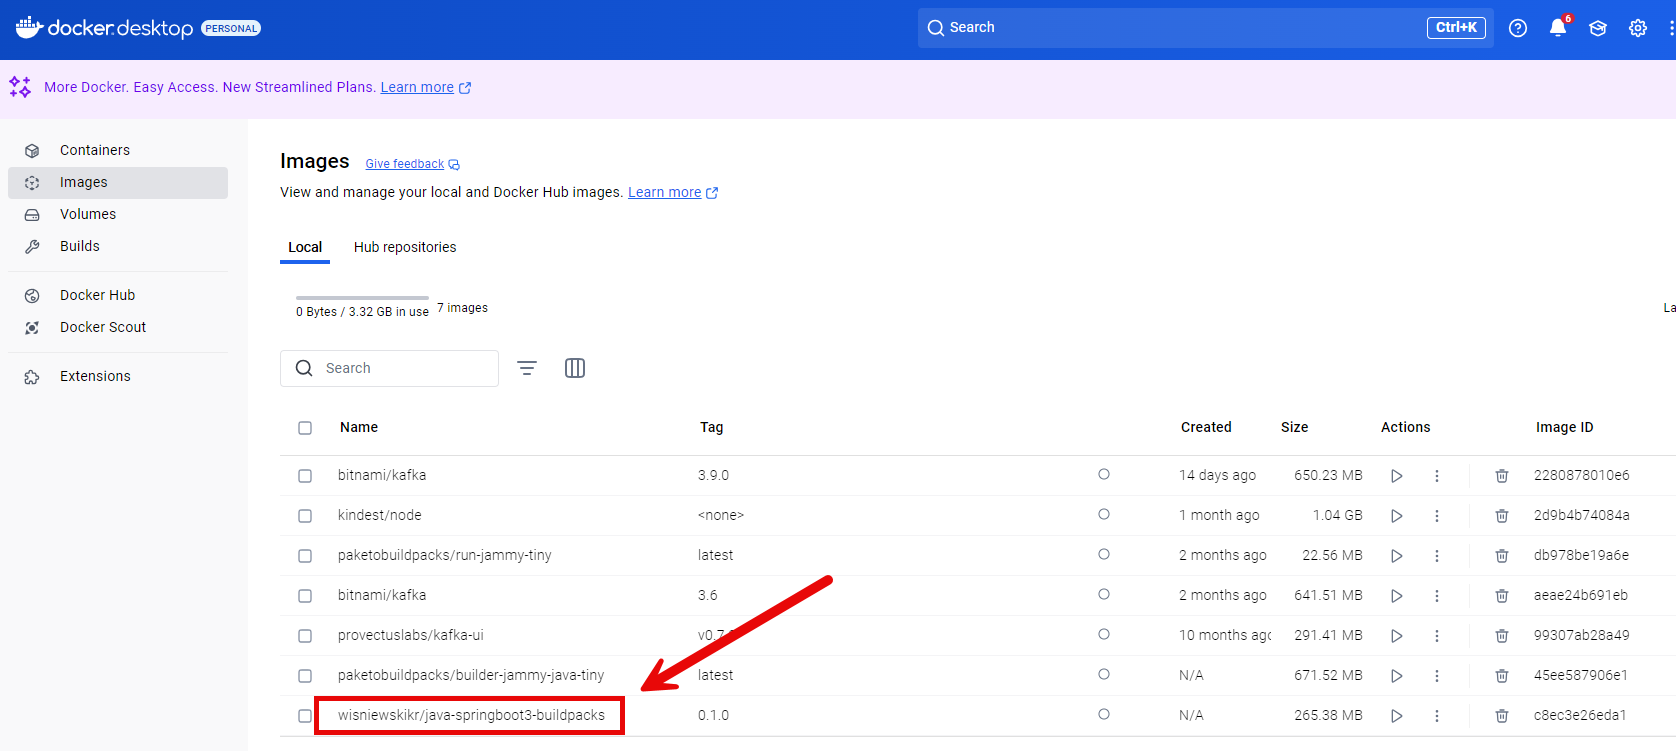
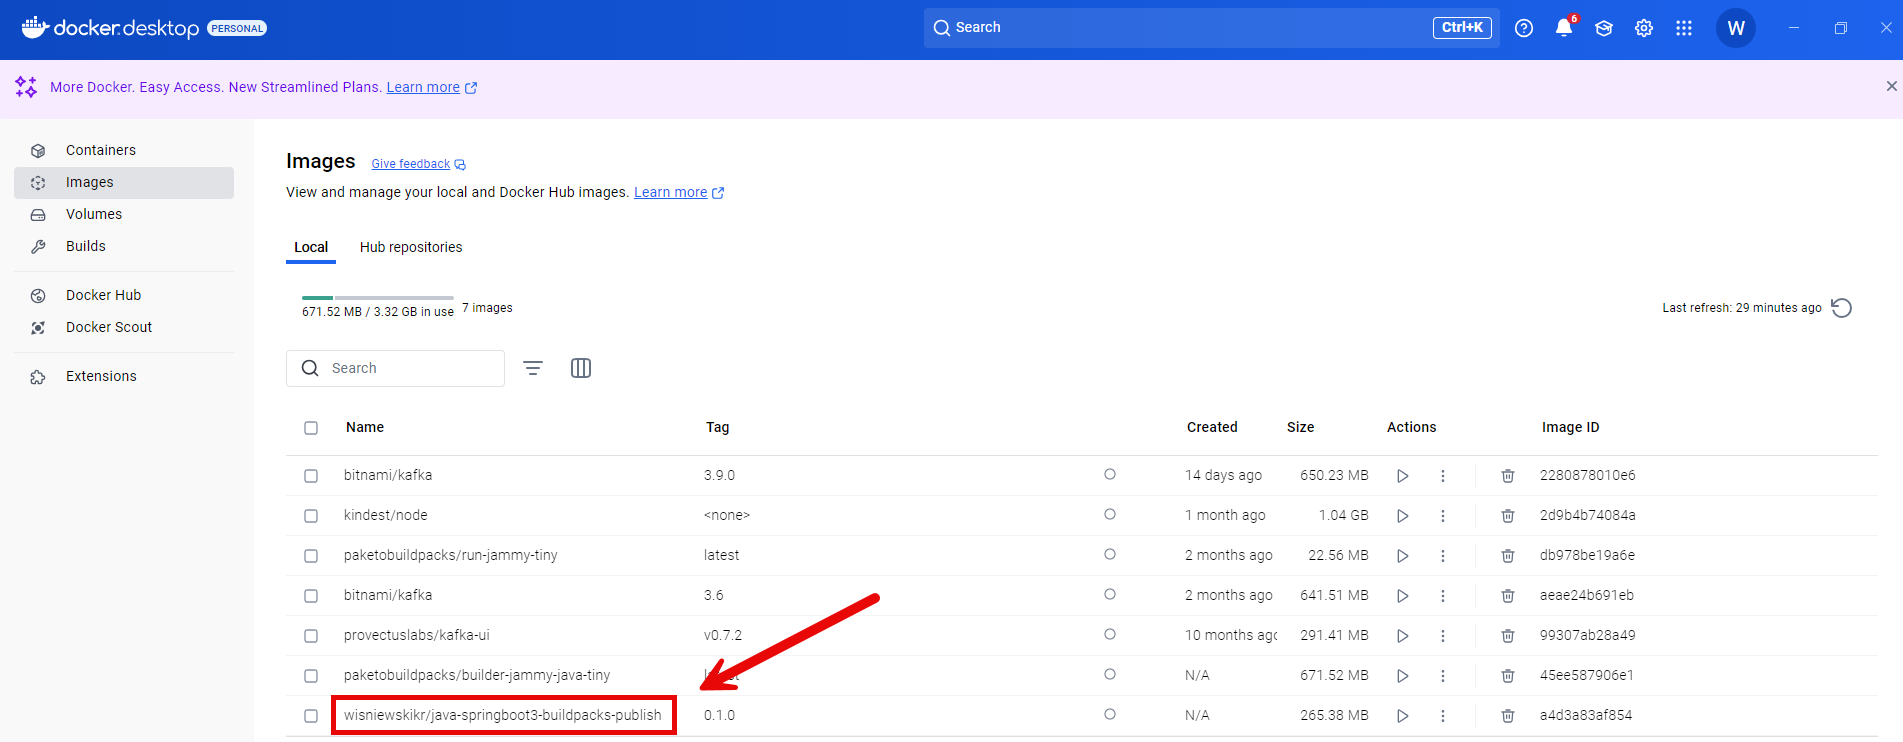
Update Readme file

diff --git a/spring-boot/java-springboot3-buildpacks-publish/README.md b/spring-boot/java-springboot3-buildpacks-publish/README.md
@@ -7,12 +7,24 @@ EXAMPLE
 
 ![My Image](readme-images/image-03.png)
 
+![My Image](readme-images/image-04.png)
+
+![My Image](readme-images/image-05.png)
+
+![My Image](readme-images/image-06.png)
+
+![My Image](readme-images/image-07.png)
+
+![My Image](readme-images/image-08.png)
+
+![My Image](readme-images/image-09.png)
+
 
 DESCRIPTION
 -----------
 
 ##### Goal
-The goal of this project is to present how to create Docker image af an application using **build packs** in **Java** programming language with usage **Spring Boot 3** framework.
+The goal of this project is to present how to create and **publish** to Docker Hub a Docker image af an application using **build packs** in **Java** programming language with usage **Spring Boot 3** framework.
 
 ##### Terminology
 Terminology explanation:
@@ -37,7 +49,9 @@ Usage steps:
 1. Start **Docker** tool
 1. In a command line tool **build Docker image** with `mvn spring-boot:build-image`
 1. Open **Docker Desktop**
-   * Exapected **Docker image** with name **wisniewskikr/java-springboot3-buildpacks:0.1.0**
+   * Exapected **Docker image** with name **wisniewskikr/java-springboot3-buildpacks-publish:0.1.0**
+1. Open **Docker Hub** with `https://hub.docker.com/`
+   * Exapected **Docker image** with name **wisniewskikr/java-springboot3-buildpacks-publish:0.1.0**
 1. Clean up environment 
      * Stop **Docker** tool
 
@@ -46,4 +60,8 @@ IMPLEMENTATION
 --------------
 
 Implementation steps:
-1. Update **pom.xml** file with plugin **spring-boot-maven-plugin** with configuration **wisniewskikr/${project.artifactId}:${project.version}**
+1. Update **pom.xml** file with plugin **spring-boot-maven-plugin** with configuration
+   * Attribute **name** as **wisniewskikr/${project.artifactId}:${project.version}**
+   * Attriubute **publish** as **true**
+   * Attribute **publishRegistry/username** as **Docker Hub username**
+   * Attribute **publishRegistry/username** as **Docker Hub password** 
